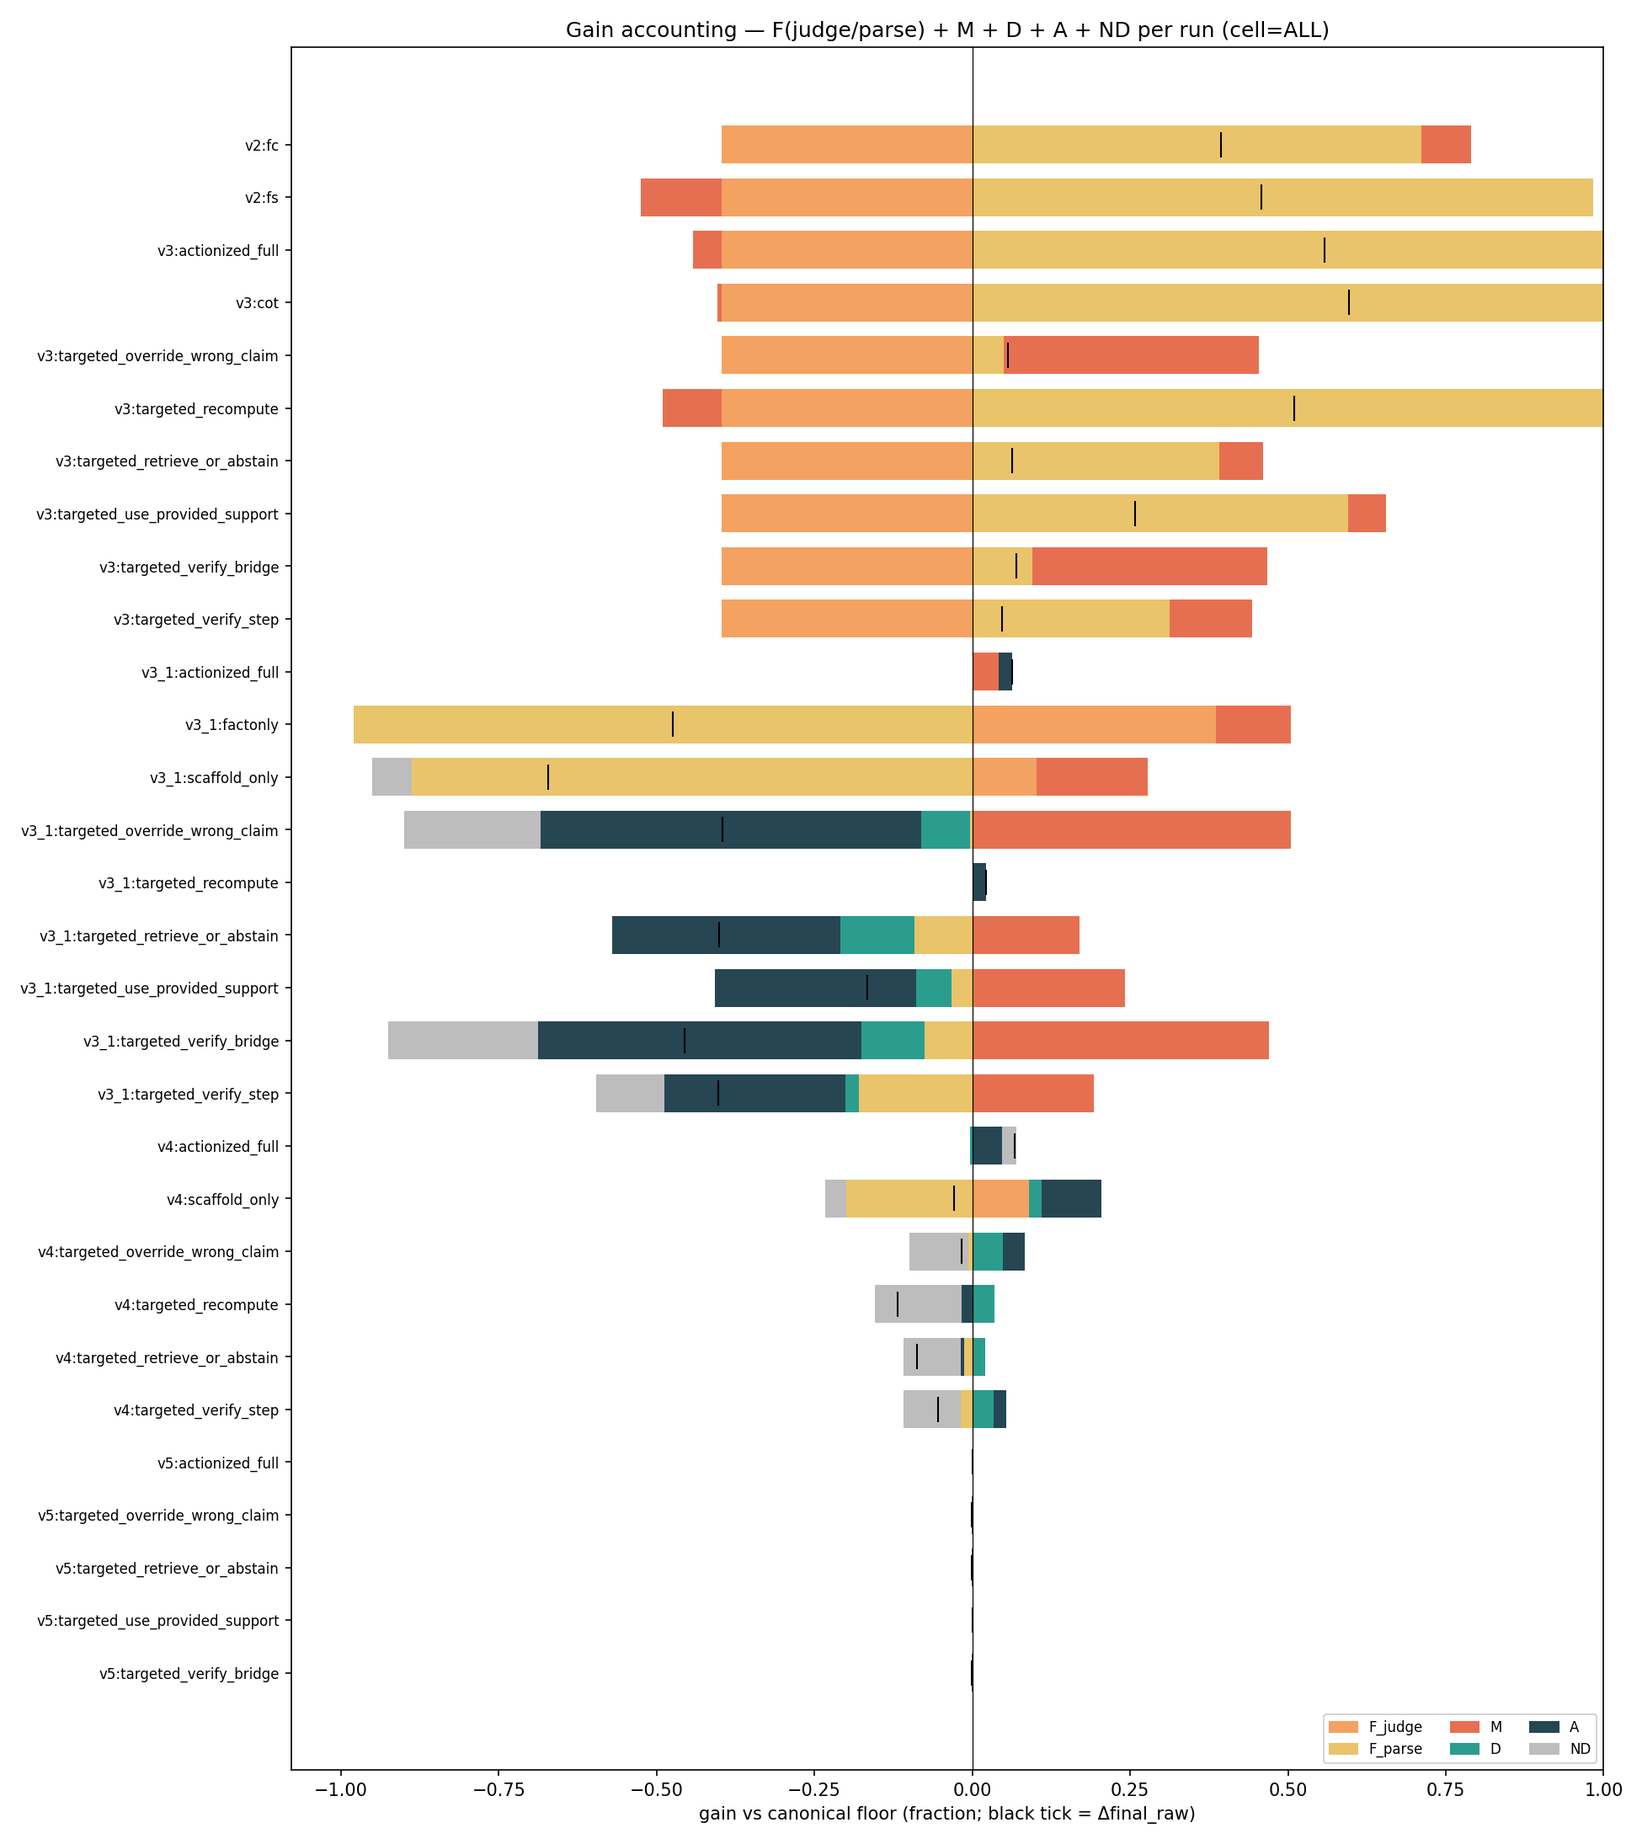
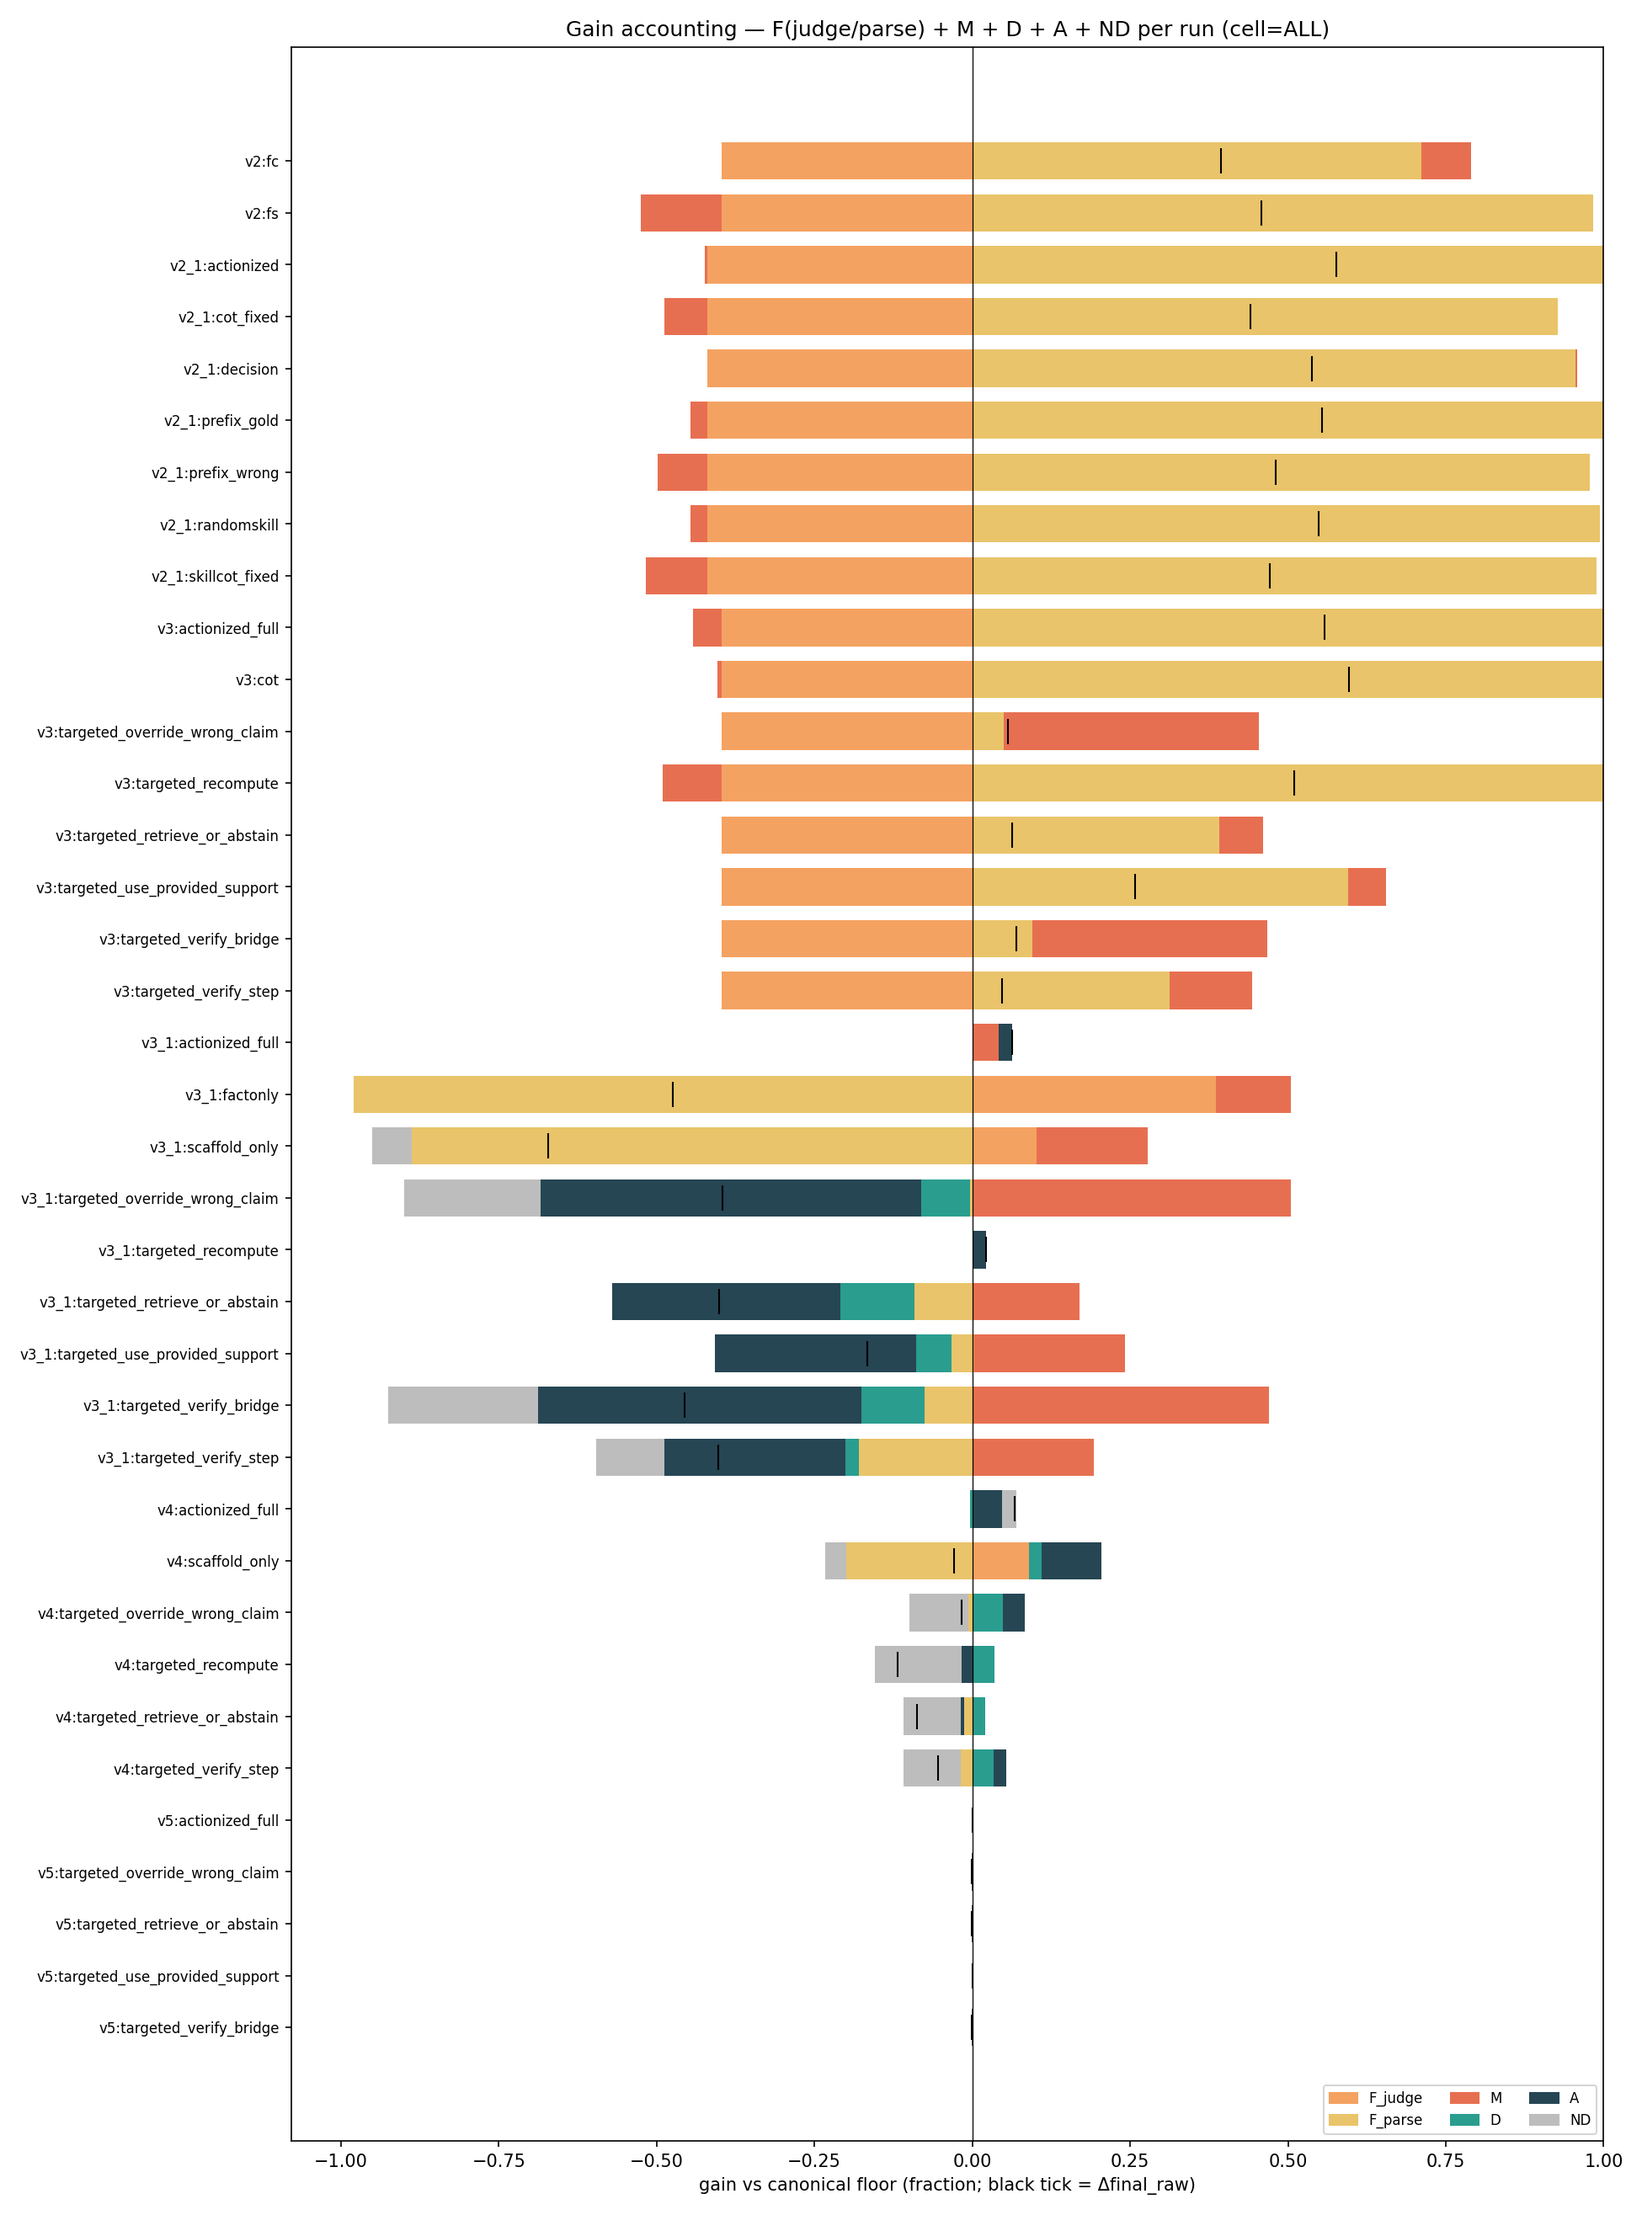
Loop 1.5 batch-1 harvest: T4 verdict (H1 rejected, H2 sharpened: genre-coupled computation), pass8 v1 quarantined + script v2 (no_think/2048/sidecar), R-8 v2.1 fine-ledger rebuild

diff --git a/scripts/pass8_gsm.py b/scripts/pass8_gsm.py
@@ -29,6 +29,10 @@ from gsm_repair_v4.gsm_world import load_gsm  # noqa: E402
 
 K = 8
 TEMP, TOP_P, TOP_K = 0.7, 0.8, 20  # Qwen3 official non-thinking recommendation
+VERSION = 2  # v2 (2026-07-04): force non-thinking via /no_think + max_tokens 2048 + sample dump.
+# v1 CAVEAT: chat template may default to Qwen3 THINKING mode; <think> can eat the 1024-token
+# budget -> truncation scored as wrong -> inflates the [0-25%] bucket. v1 calib500 numbers are
+# therefore SUSPECT until re-run with v2 (repair evals all use non-thinking `template: qwen`).
 INSTR = ("Solve the math word problem. Reason step by step, then end with a line exactly "
          "in the form 'The final answer is N.'")
 
@@ -50,13 +54,13 @@ def main():
     args = ap.parse_args()
 
     items = load_gsm("test", limit=args.limit)
-    prompts = [f"{INSTR}\n{it['question']}" for it in items]
+    prompts = [f"{INSTR}\n{it['question']} /no_think" for it in items]  # soft-switch: non-thinking
 
     try:
         from vllm import LLM, SamplingParams
         llm = LLM(model=args.model, dtype="bfloat16")
         sp = SamplingParams(n=K, temperature=TEMP, top_p=TOP_P, top_k=TOP_K,
-                            max_tokens=1024, seed=42)
+                            max_tokens=2048, seed=42)
         # chat template = qwen (align with LF `template: qwen`)
         outs = llm.chat([[{"role": "user", "content": p}] for p in prompts], sp)
         samples = [[o.text for o in out.outputs] for out in outs]
@@ -73,19 +77,24 @@ def main():
                                            tokenize=False, add_generation_prompt=True)
             ids = tok(text, return_tensors="pt").to(model.device)
             out = model.generate(**ids, do_sample=True, temperature=TEMP, top_p=TOP_P,
-                                 top_k=TOP_K, num_return_sequences=K, max_new_tokens=1024)
+                                 top_k=TOP_K, num_return_sequences=K, max_new_tokens=2048)
             samples.append([tok.decode(o[ids["input_ids"].shape[1]:],
                                        skip_special_tokens=True) for o in out])
 
     with Path(args.out).open("w") as f:
         f.write(json.dumps({"_header": {"model": args.model, "k": K, "temperature": TEMP,
                                         "top_p": TOP_P, "top_k": TOP_K, "seed": 42,
-                                        "n_items": len(items)}}) + "\n")
+                                        "n_items": len(items), "version": VERSION,
+                                        "no_think": True, "max_tokens": 2048}}) + "\n")
         for it, ss in zip(items, samples):
             g = gold_of(it["answer"])
             nc = sum(1 for s in ss if extract(s) == g)
             f.write(json.dumps({"id": it["id"], "gold": g, "n_correct": nc,
                                 "pass_at_8": int(nc > 0)}) + "\n")
+    # audit sidecar: raw samples of the first 20 items (validity check for extraction/truncation)
+    side = Path(args.out).with_suffix(".samples20.json")
+    side.write_text(json.dumps([{"id": it["id"], "samples": ss[:2]}
+                                for it, ss in list(zip(items, samples))[:20]], ensure_ascii=False))
     print(f"wrote {args.out} ({len(items)} items)")
 
 

diff --git a/ledger/build_ledger.py b/ledger/build_ledger.py
@@ -96,10 +96,12 @@ def dom_registry():
              "factonly": ["configs/v2/factonly_sft.yaml", "configs/v2/inject_sft.yaml"]})
     reg["v2_1"] = dict(
         eval=(None, "data_v2_1/repair_eval.jsonl"), cellfield="cell",
-        floor=None, underfit=None,
+        # R-8 (LOOP1_RULINGS): knowledge-floor predict on the v2.1 eval landed 2026-07-03
+        # (server batch-1) -> the seven v2.1 rows move from absolute-only to fine ledger.
+        floor="factonly_on_v21", underfit=None,
         runs={r: pd("data_v2_1/predict_outputs", r) for r in
-              ["actionized", "cot_fixed", "decision", "randomskill", "skillcot_fixed",
-               "prefix_gold", "prefix_wrong"]},
+              ["factonly_on_v21", "actionized", "cot_fixed", "decision", "randomskill",
+               "skillcot_fixed", "prefix_gold", "prefix_wrong"]},
         refs=[], cfg={})
     reg["v3"] = dict(
         eval=(None, "data_v3/repair_eval.jsonl"), cellfield="policy",
@@ -233,7 +235,8 @@ def cell_account(items, vf, vt, leaks, idx):
 # R-4 (C-4a, frozen by qc/LOOP1_RULINGS.md): per-domain pre-repair reference run.
 # Any paper claim about ability injected/spent may ONLY cite the pre-repair columns.
 PREREPAIR = {"v4": "diagnosis_base", "v5": "diagnosis_base",
-             "v3": "factonly", "v3_1": "factonly", "v2": "factonly"}
+             "v3": "factonly", "v3_1": "factonly", "v2": "factonly",
+             "v2_1": "factonly_on_v21"}
 
 
 def prerepair_matched(vp, vt, idx):

diff --git a/qc/LOOP1_5_T4_VERDICT.md b/qc/LOOP1_5_T4_VERDICT.md
@@ -1,0 +1,63 @@
+# T4 判决 + batch-1 回收报告(2026-07-04)
+
+> 输入:服务器 commit f5cf0aa(4 文件,行数 28/28/501/600 全对,commit 干净)。
+> 本文是 R-5(第六类伪影命名)的裁决材料。判读表(LOOP1_RULINGS §2)没有预设本次出现的
+> 混合格局,按纪律不硬塞行,如实呈报。
+
+## 1. T4 素题双体裁对照(28 条 = repair-mode 下 floor 全错、pre-repair 全对的 matched 题)
+
+| 模型 | 素题体裁产出 | 内容正确 |
+|---|---|---|
+| pre-repair | 28/28 素题体裁 | **28/28 = 100%** |
+| scaffold_conv(30ep 收敛 floor) | 素题体裁 13 · **JSON 出血 11** · 哑火 4 | 素题体裁 **13/13 = 100%**;JSON 出血 **3/11 = 27%**;总分 16/28 = 57%(严格素题判分 46%) |
+
+**核心事实:同一批题、同一份权重,算术对错跟着体裁走。**
+- floor 守住素题体裁时:算术**零损伤**(13/13)。
+- floor 滑进它被训练的 JSON 体裁时(给素题自创 `solve_decision/solve_policy/step_trace` schema):
+  算术大面积错(3/11)——与 T2 在 repair-mode 里看到的 27/28 真算错**同源**。
+- 出血率本身是训练强度的函数:重训后该体裁入侵素题输入(11 出血 + 4 哑火 = 15/28)。
+
+## 2. 判读(对照预注册判读表)
+
+- **H3 已出局**(T2 27/28 真算错、T3 步数 KS p=1.0,见 LOOP1_5_DISCRIMINATION)。
+- **H1(权重损伤)出局**:H1 预测素题体裁下也算错;实测素题体裁 13/13 全对。
+- **H2 成立,且机制比预注册表述更锐利**:不止"repair 模式下测不准",而是
+  **(a) repair 体裁内的计算本身是劣化的**(体裁内算错,不是算对了表达不出);
+  **(b) 高 epoch 训练让该体裁入侵素题输入**(出血+哑火)。
+  能力=权重:完好。能力=可靠可调用的行为:体裁依赖。
+- 预注册判读表的"坍塌→H1 强成立"行**不适用**:表设计时把"坍塌"默认为"算错",
+  实测坍塌分解为"体裁内算术完好 + 体裁出血算错/哑火"。此偏离如实登记。
+
+## 3. R-5 命名建议(待顾问裁决,论文措辞维持中性直至裁决)
+
+- 建议命名:**mode-interference artifact(genre-coupled computation)**——计算正确性与
+  生成体裁耦合;repair-SFT 训练的是体裁,体裁携带自己的(劣化的)计算通道。
+- 论文可主张(若采纳):repair-mode 下的 ability 读数**系统性低估**权重内能力;
+  任何"修复损坏/提升了能力"的主张必须给**素题体裁对照列**(= R-7 双体裁闸门的判据列)。
+- 连带问题请一并裁决:judge 是否加第三档"schema-tolerant"(承认出血 JSON 里的
+  final_answer)?它会把 T4 floor 从 46%→57%,把出血的一部分从"F/哑火"移到"体裁内容错"。
+  倾向:**不加进账本主口径**(口径冻结),只作 T4/双体裁分析的辅助读数。
+
+## 4. pass@8 calib500 —— 读数隔离(SUSPECT,勿用于定桶)
+
+四桶(500 题,v1 脚本):[0-25%] 164 · (25-50%] 54 · (50-75%] 61 · (75-100%] 221;0/8 有 101 题。
+**疑点:greedy 下 pre-repair ≈94%,采样却 20% 全灭(0/8)——与 T4/transfer 图景不符。**
+头号嫌疑:vllm chat template 默认 Qwen3 **thinking 模式**,`<think>` 吃满 1024 token 预算 →
+截断判 0 → [0-25%] 桶被系统性灌水。v1 脚本没存原始样本,无法本地验尸。
+处置:`scripts/pass8_gsm.py` 升 **v2**(`/no_think` 软开关 + max_tokens 2048 + 首 20 题原样本
+sidecar 留档),**calib500 需用 v2 重跑**(RUNBOOK batch-1b)。v1 数字隔离存档,不进任何设计决策。
+——这正是 Artifact Taxonomy 的 F 类(判定/截断伪影)在测量仪器自身上的又一例,写进论文附录。
+
+## 5. R-8 落地:v2.1 转细账
+
+新地板(inject ckpt × v2.1 eval,600 行)入账,v2.1 七行从绝对分转四层分解(账本 637 行完成分解):
+Δraw +44~+58,全部呈 **F 主导**(F_judge −42 / F_parse +93~+100,M≈0,D/A 不可测)——与
+v2/v3 同族:知识地板不产可解析输出,增益无法与格式习得分离。v2.1 的方法排名
+(actionized 57.7 > randomskill 54.8 > decision 53.8 > skillcot 47.2 > cot 44.0,Δraw)在
+F 层内幸存,历史结论定性不变、定位改变(格式门内混合增益,不作能力主张)。
+
+## 6. 等待
+
+1. 顾问对 §3 命名 + schema-tolerant 第三档的裁决(R-5)。
+2. 服务器跑 batch-1b(pass@8 v2 重跑 calib500,附 sidecar)→ 定桶边界 → Loop 2A 设计。
+3. T5 功效版随 Loop 2A 难题桶落地。epoch-sweep(Loop 1.5 sweep 部分)仍待服务器。

diff --git a/qc/RUNBOOK_batch1.md b/qc/RUNBOOK_batch1.md
@@ -57,3 +57,21 @@ llamafactory-cli train configs/v2_1/factonly_on_v21_predict.yaml
 
 回传后本地动作(CC):T4 判读 → R-5 命名裁决材料;pass@8 → Loop 2A 桶边界 + T5 在难题桶复测;
 R-8 → v2.1 七行转细账、账本重建。
+
+---
+
+## batch-1b(增补 2026-07-04)— pass@8 校准重跑(v2 脚本)
+
+v1 calib500 疑受 thinking-模式截断污染(见 qc/LOOP1_5_T4_VERDICT.md §4),脚本已升 v2
+(/no_think + max_tokens 2048 + 首 20 题原样本 sidecar)。重跑:
+
+```bash
+cd <repo> && git pull
+python3 scripts/pass8_gsm.py --model /mnt/hdfs/xwqu/Qwen3-8B --limit 500 --out data_v4/pass8_calib500_v2.jsonl
+```
+
+- 预期产物:`data_v4/pass8_calib500_v2.jsonl`(501 行,header 含 "version": 2、"no_think": true)
+  + `data_v4/pass8_calib500_v2.samples20.json`(验尸用原样本)。
+- 回传:两个文件放 `data_v4/`,单独 commit,message 固定
+  "server: batch-1b pass@8 calib500 v2 (no_think)",只含这 2 个文件。
+- 全量 1319 仍等本地确认桶边界后另行指令。

diff --git a/ledger/inventory.md b/ledger/inventory.md
@@ -7,6 +7,7 @@
 | v2 | fs | gain-accounting-v1 | data_v2/predict_outputs/predict_fs/generated_predictions.jsonl | 600 | ok |
 | v2 | zs_direct | gain-accounting-v1 | data_v2/predict_outputs/predict_zs_direct/generated_predictions.jsonl | 600 | ok |
 | v2 | zs_cot | gain-accounting-v1 | data_v2/predict_outputs/predict_zs_cot/generated_predictions.jsonl | 600 | ok |
+| v2_1 | factonly_on_v21 | gain-accounting-v1 | data_v2_1/predict_outputs/predict_factonly_on_v21/generated_predictions.jsonl | 600 | ok |
 | v2_1 | actionized | gain-accounting-v1 | data_v2_1/predict_outputs/predict_actionized/generated_predictions.jsonl | 600 | ok |
 | v2_1 | cot_fixed | gain-accounting-v1 | data_v2_1/predict_outputs/predict_cot_fixed/generated_predictions.jsonl | 600 | ok |
 | v2_1 | decision | gain-accounting-v1 | data_v2_1/predict_outputs/predict_decision/generated_predictions.jsonl | 600 | ok |
